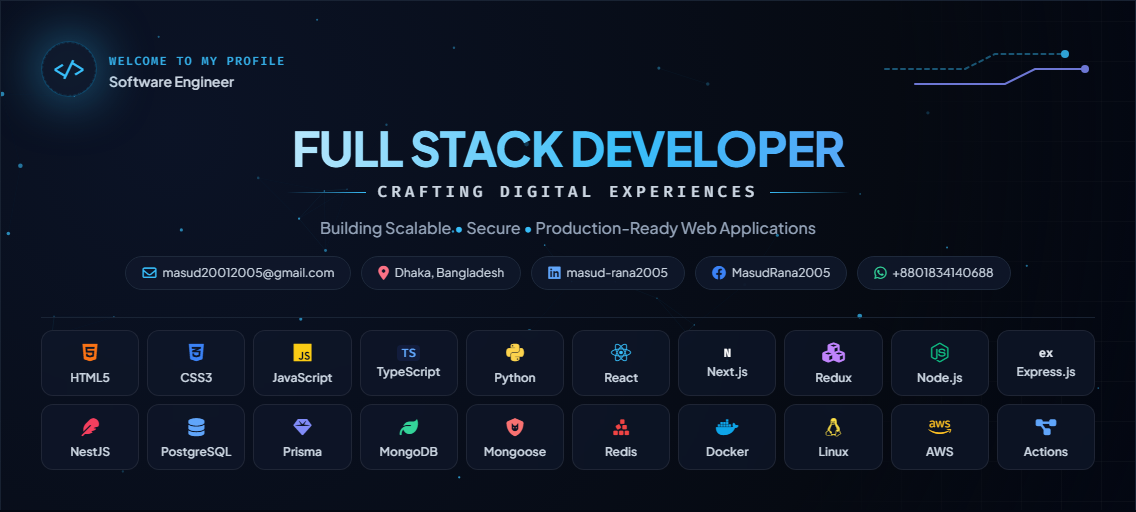
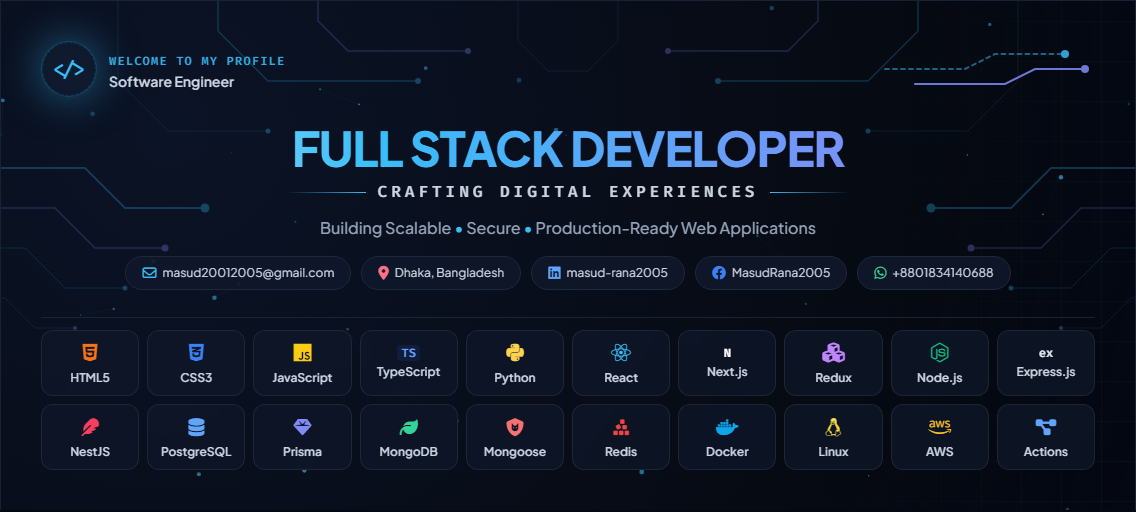
feat: add dynamic SVG circuit backgrounds and reset container border-radius

diff --git a/banner-generator.html b/banner-generator.html
@@ -53,6 +53,7 @@
             background-size: 100% 100%, 40px 40px, 40px 40px;
             background-position: 0 0, 20px 20px, 20px 20px;
             box-shadow: 0 25px 60px -15px rgba(0, 0, 0, 0.9), 0 0 35px rgba(56, 189, 248, 0.15);
+            border-radius: 0 !important;
         }
 
         .tech-badge {
@@ -158,6 +159,56 @@
         
         <!-- Canvas Particle Grid Overlay -->
         <canvas id="bgCanvas"></canvas>
+
+        <!-- Dynamic SVG Circuit Backgrounds -->
+        <div class="absolute inset-0 pointer-events-none overflow-hidden z-0 opacity-30 dark:opacity-40">
+            
+            <!-- Top Circuit Lines -->
+            <svg class="absolute top-0 left-1/2 -translate-x-1/2 w-full min-w-[1000px] h-[150px]" viewBox="0 0 1000 150" fill="none" xmlns="http://www.w3.org/2000/svg">
+                <!-- Main nodes -->
+                <path d="M150,0 L150,30 L200,80 L350,80" stroke="#38bdf8" stroke-width="1.5" stroke-opacity="0.7"/>
+                <circle cx="350" cy="80" r="3" fill="#38bdf8"/>
+                <path d="M250,0 L250,20 L280,50 L400,50" stroke="#818cf8" stroke-width="1.5" stroke-opacity="0.7"/>
+                <circle cx="400" cy="50" r="3" fill="#818cf8"/>
+                
+                <path d="M850,0 L850,30 L800,80 L650,80" stroke="#38bdf8" stroke-width="1.5" stroke-opacity="0.7"/>
+                <circle cx="650" cy="80" r="3" fill="#38bdf8"/>
+                <path d="M750,0 L750,20 L720,50 L600,50" stroke="#818cf8" stroke-width="1.5" stroke-opacity="0.7"/>
+                <circle cx="600" cy="50" r="3" fill="#818cf8"/>
+
+                <!-- Extra background traces -->
+                <path d="M50,0 L50,80 L100,130 L200,130" stroke="#38bdf8" stroke-width="1" stroke-opacity="0.4"/>
+                <circle cx="200" cy="130" r="2.5" fill="#38bdf8"/>
+                <path d="M950,0 L950,80 L900,130 L800,130" stroke="#38bdf8" stroke-width="1" stroke-opacity="0.4"/>
+                <circle cx="800" cy="130" r="2.5" fill="#38bdf8"/>
+                
+                <path d="M450,0 L450,40 L480,70 L520,70 L550,40 L550,0" stroke="#818cf8" stroke-width="1" stroke-opacity="0.4"/>
+            </svg>
+
+            <!-- Left Circuit Lines -->
+            <svg class="absolute top-1/4 -left-4 w-64 h-64" viewBox="0 0 256 256" fill="none" xmlns="http://www.w3.org/2000/svg">
+                <path d="M0,40 L100,40 L140,80 L220,80" stroke="#38bdf8" stroke-width="2" stroke-opacity="0.8"/>
+                <circle cx="220" cy="80" r="4.5" fill="#38bdf8"/>
+                <path d="M0,80 L70,80 L110,120 L180,120" stroke="#818cf8" stroke-width="1.5" stroke-opacity="0.7"/>
+                <circle cx="180" cy="120" r="3.5" fill="#818cf8"/>
+                <path d="M0,120 L40,120 L80,160 L140,160" stroke="#38bdf8" stroke-width="1" stroke-opacity="0.5"/>
+                <circle cx="140" cy="160" r="2.5" fill="#38bdf8"/>
+                <path d="M0,170 L20,170 L50,200 L90,200" stroke="#818cf8" stroke-width="1" stroke-opacity="0.4"/>
+                <circle cx="90" cy="200" r="2" fill="#818cf8"/>
+            </svg>
+
+            <!-- Right Circuit Lines -->
+            <svg class="absolute top-1/4 -right-4 w-64 h-64" viewBox="0 0 256 256" fill="none" xmlns="http://www.w3.org/2000/svg">
+                <path d="M256,40 L156,40 L116,80 L36,80" stroke="#38bdf8" stroke-width="2" stroke-opacity="0.8"/>
+                <circle cx="36" cy="80" r="4.5" fill="#38bdf8"/>
+                <path d="M256,80 L186,80 L146,120 L76,120" stroke="#818cf8" stroke-width="1.5" stroke-opacity="0.7"/>
+                <circle cx="76" cy="120" r="3.5" fill="#818cf8"/>
+                <path d="M256,120 L216,120 L176,160 L116,160" stroke="#38bdf8" stroke-width="1" stroke-opacity="0.5"/>
+                <circle cx="116" cy="160" r="2.5" fill="#38bdf8"/>
+                <path d="M256,170 L236,170 L206,200 L166,200" stroke="#818cf8" stroke-width="1" stroke-opacity="0.4"/>
+                <circle cx="166" cy="200" r="2" fill="#818cf8"/>
+            </svg>
+        </div>
 
         <!-- Top Header Row -->
         <div class="relative z-10 flex items-center justify-between">
